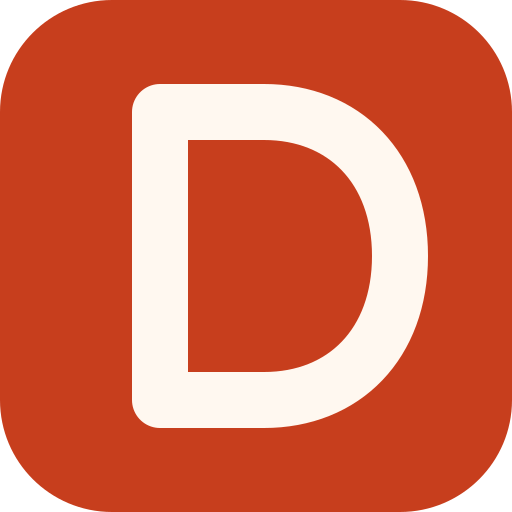
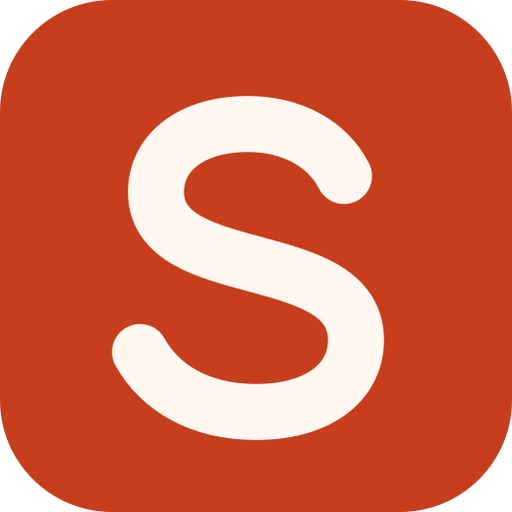
chore(brand): переименование DukenAI → Sөre
- название в интерфейсе, заголовках, манифесте, сообщениях Telegram, письмах и документации
- логотип-слово Sөre (ө акцентным цветом), новая иконка «S» и PNG для PWA/Apple
- OG-картинки: добавлен Onest cyrillic-ext, чтобы «ө» не превращалась в пустой квадрат
- ключи localStorage duken-* → sore-*, package name, project_id Supabase, demo-почты @sore.kz
- в HTTP-заголовке X-Title и логах — ASCII «Sore» (non-ASCII в заголовках ломает fetch)
- не тронуты: миграции, cron-задача и advisory-lock в SQL, исторические отчёты docs/CODEX*, AUDIT

Changed region(s): [[0.2188, 0.1562, 0.8438, 0.875], [0.6562, 0.7812, 0.7188, 0.8125]]

diff --git a/src/app/page.tsx b/src/app/page.tsx
@@ -21,7 +21,7 @@ export default function Home() {
     <main className="mx-auto flex w-full max-w-6xl flex-col gap-14 px-5 pb-14 pt-6 sm:px-8">
       <header className="flex items-center justify-between gap-4">
         <div className="text-2xl font-extrabold tracking-tight">
-          duken<span className="text-accent">.ai</span>
+          S<span className="text-accent">ө</span>re
         </div>
         <div className="flex items-center gap-3 sm:gap-5">
           <ThemeToggle />
@@ -65,7 +65,7 @@ export default function Home() {
             <div className="size-10 rounded-full bg-thumb" />
             <div>
               <div className="text-[15px] font-bold">Сладкий дом Алии</div>
-              <div className="text-xs text-muted">Алматы · duken.ai/aliya</div>
+              <div className="text-xs text-muted">Алматы · sore.kz/aliya</div>
             </div>
           </div>
           <div className="grid grid-cols-2 gap-2.5">
@@ -114,7 +114,7 @@ export default function Home() {
             <ul className="flex flex-col gap-2 text-muted">
               <li>До 15 товаров</li>
               <li>20 ИИ-генераций в день</li>
-              <li>Плашка «Сделано в DukenAI»</li>
+              <li>Плашка «Сделано в Sөre»</li>
             </ul>
             <Link href="/login" className="btn-accent mt-auto">
               Создать магазин
@@ -138,7 +138,7 @@ export default function Home() {
       </section>
 
       <footer className="flex flex-wrap items-center justify-between gap-4 border-t border-line pt-6 text-sm text-muted">
-        <div>© DukenAI · Сделано в Казахстане</div>
+        <div>© Sөre · Сделано в Казахстане</div>
         <nav aria-label="Юридическая информация" className="flex flex-wrap gap-x-5">
           <Link href="/terms" className="flex min-h-11 items-center underline">
             Условия

diff --git a/src/app/[slug]/cart/cart-view.tsx b/src/app/[slug]/cart/cart-view.tsx
@@ -76,7 +76,7 @@ export function CartView({ shop, lang, products }: { shop: ShopInfo; lang: Lang;
     // eslint-disable-next-line react-hooks/set-state-in-effect
     setNotice(useCart.getState().reconcile(shop.slug, products));
     try {
-      const saved = JSON.parse(localStorage.getItem("duken-customer") || "{}");
+      const saved = JSON.parse(localStorage.getItem("sore-customer") || "{}");
       if (typeof saved.name === "string") setName(saved.name.slice(0,80));
       if (typeof saved.phone === "string") setPhone(saved.phone.slice(0,30));
     } catch { /* Optional browser storage. */ }
@@ -139,7 +139,7 @@ export function CartView({ shop, lang, products }: { shop: ShopInfo; lang: Lang;
     });
     const url = whatsappUrl(shop.whatsapp, text);
 
-    try { localStorage.setItem("duken-customer", JSON.stringify({ name: name.trim(), phone: digits })); } catch { /* Optional storage. */ }
+    try { localStorage.setItem("sore-customer", JSON.stringify({ name: name.trim(), phone: digits })); } catch { /* Optional storage. */ }
     clear();
     setSentNumber(Number(row.order_number));
     setStatusHref(statusPath);
@@ -245,7 +245,7 @@ export function CartView({ shop, lang, products }: { shop: ShopInfo; lang: Lang;
             <input type="text" name="website" tabIndex={-1} autoComplete="off" hidden />
 
             <p className="text-sm text-muted">{t.savedHint}</p>
-            <button type="button" className="min-h-11 text-sm underline" onClick={() => { try { localStorage.removeItem("duken-customer"); } catch {} setName(""); setPhone(""); }}>{t.clearDetails}</button>
+            <button type="button" className="min-h-11 text-sm underline" onClick={() => { try { localStorage.removeItem("sore-customer"); } catch {} setName(""); setPhone(""); }}>{t.clearDetails}</button>
             <div className="grid grid-cols-2 gap-2" role="group" aria-label={t.method}>
               {(["delivery", "pickup"] as const).map((v) => (
                 <button

diff --git a/src/app/api/telegram/webhook/route.ts b/src/app/api/telegram/webhook/route.ts
@@ -25,7 +25,7 @@ export async function POST(request: Request) {
   if (start) {
     const { data: row } = await admin.from("shop_telegram").select("shop_id").eq("link_code", start[1]).maybeSingle();
     if (!row) {
-      await sendTelegram(chatId, "Код не подошёл или устарел. Откройте в кабинете DukenAI «Магазин» и нажмите «Подключить Telegram» ещё раз.");
+      await sendTelegram(chatId, "Код не подошёл или устарел. Откройте в кабинете Sөre «Магазин» и нажмите «Подключить Telegram» ещё раз.");
       return NextResponse.json({ ok: true });
     }
     await admin.from("shop_telegram").update({ chat_id: chatId, linked_at: new Date().toISOString(), link_code: null }).eq("shop_id", row.shop_id);
@@ -36,10 +36,10 @@ export async function POST(request: Request) {
 
   if (/^\/stop(?:@\w+)?$/.test(text)) {
     await admin.from("shop_telegram").update({ chat_id: null, linked_at: null }).eq("chat_id", chatId);
-    await sendTelegram(chatId, "Уведомления отключены. Подключить снова можно в кабинете DukenAI.");
+    await sendTelegram(chatId, "Уведомления отключены. Подключить снова можно в кабинете Sөre.");
     return NextResponse.json({ ok: true });
   }
 
-  await sendTelegram(chatId, "Это бот уведомлений DukenAI. Чтобы получать заказы, откройте в кабинете «Магазин» и нажмите «Подключить Telegram».");
+  await sendTelegram(chatId, "Это бот уведомлений Sөre. Чтобы получать заказы, откройте в кабинете «Магазин» и нажмите «Подключить Telegram».");
   return NextResponse.json({ ok: true });
 }

diff --git a/tests/e2e/regressions.spec.ts b/tests/e2e/regressions.spec.ts
@@ -67,9 +67,9 @@ test.describe("покупатель", () => {
       await expect(buyer.getByRole("heading", { name: "Тапсырыс қабылданды" })).toBeVisible();
       await expect(buyer.getByRole("link", { name: "WhatsApp ашу" })).toBeVisible();
       // Сообщение продавцу всегда на русском, даже если витрина на казахском.
-      expect(new URL(whatsapp).searchParams.get("text")).toContain("Здравствуйте! Заказ из DukenAI (№1)");
+      expect(new URL(whatsapp).searchParams.get("text")).toContain("Здравствуйте! Заказ из Sөre (№1)");
 
-      expect(JSON.parse((await buyer.evaluate(() => localStorage.getItem("duken-customer"))) || "{}")).toMatchObject({ name: "Айгерим", phone: "77015550011" });
+      expect(JSON.parse((await buyer.evaluate(() => localStorage.getItem("sore-customer"))) || "{}")).toMatchObject({ name: "Айгерим", phone: "77015550011" });
 
       // Новая покупка: контакты подставляются сами, кнопка «Өшіру» их стирает.
       await buyer.goto(`${base}/${slug}?lang=kz`);
@@ -78,7 +78,7 @@ test.describe("покупатель", () => {
       await expect(buyer.getByLabel("Аты", { exact: true })).toHaveValue("Айгерим");
       await buyer.getByRole("button", { name: "Сақталған ат пен телефонды өшіру" }).click();
       await expect(buyer.getByLabel("Аты", { exact: true })).toHaveValue("");
-      expect(await buyer.evaluate(() => localStorage.getItem("duken-customer"))).toBeNull();
+      expect(await buyer.evaluate(() => localStorage.getItem("sore-customer"))).toBeNull();
     } finally {
       await ctx.close();
       await cleanupUser(admin, email);

diff --git a/src/app/terms/page.tsx b/src/app/terms/page.tsx
@@ -1,13 +1,13 @@
 import type { Metadata } from "next";
 import { LegalPage, contactLine } from "@/components/legal-page";
 
-export const metadata: Metadata = { title: "Условия использования — DukenAI", description: "Правила пользования сервисом DukenAI для продавцов и покупателей." };
+export const metadata: Metadata = { title: "Условия использования — Sөre", description: "Правила пользования сервисом Sөre для продавцов и покупателей." };
 
 export default function TermsPage() {
   return (
     <LegalPage title="Условия использования" updated="16 ноября 2026">
       <p>
-        DukenAI — сервис, который помогает продавцу сделать каталог-ссылку, принимать заказы и получать их в WhatsApp и Telegram. Пользуясь сервисом, вы соглашаетесь с этими условиями.
+        Sөre — сервис, который помогает продавцу сделать каталог-ссылку, принимать заказы и получать их в WhatsApp и Telegram. Пользуясь сервисом, вы соглашаетесь с этими условиями.
       </p>
 
       <h2>1. Что делает сервис</h2>

diff --git a/src/lib/og.tsx b/src/lib/og.tsx
@@ -18,9 +18,11 @@ export async function renderOg({
   subtitle: string;
   badge: string;
 }) {
-  const [cyr, lat] = await Promise.all([
+  // cyrillic-ext нужен для казахских букв (ө, ү, қ…), в том числе в названии Sөre.
+  const [cyr, lat, ext] = await Promise.all([
     font("onest-cyrillic-700-normal.woff"),
     font("onest-latin-700-normal.woff"),
+    font("onest-cyrillic-ext-700-normal.woff"),
   ]);
 
   const tints = ["#f3d9c4", "#e8d5e6", "#d9e6d0", "#f6e3a8"];
@@ -37,12 +39,12 @@ export async function renderOg({
           background: "#fff8f0",
           color: "#2b2118",
           padding: 72,
-          fontFamily: "OnestLatin, Onest",
+          fontFamily: "OnestLatin, Onest, OnestExt",
         }}
       >
         <div style={{ display: "flex", alignItems: "center", justifyContent: "space-between" }}>
           <div style={{ display: "flex", fontSize: 40 }}>
-            duken<span style={{ color: "#c73e1d" }}>.ai</span>
+            S<span style={{ color: "#c73e1d" }}>ө</span>re
           </div>
           <div
             style={{
@@ -89,6 +91,7 @@ export async function renderOg({
       fonts: [
         { name: "Onest", data: cyr, weight: 700, style: "normal" },
         { name: "OnestLatin", data: lat, weight: 700, style: "normal" },
+        { name: "OnestExt", data: ext, weight: 700, style: "normal" },
       ],
     },
   );

diff --git a/tests/unit/core.test.ts b/tests/unit/core.test.ts
@@ -14,7 +14,7 @@ describe("заказ", () => {
   it("точно соответствует эталону", () => expect(buildOrderText({ number: 1042, lines: [
     { id: "1", title: "Торт «Прага» 1 кг", price: 12000, qty: 1 },
     { id: "2", title: "Капкейки, набор 6 шт", price: 4500, qty: 2 },
-  ], name: "Айгерим", delivery: "delivery", address: "ул. Абая 10, кв. 5", comment: "к 18:00" })).toBe("Здравствуйте! Заказ из DukenAI (№1042)\n\n1. Торт «Прага» 1 кг × 1 — 12 000 ₸\n2. Капкейки, набор 6 шт × 2 — 9 000 ₸\n\nИтого: 21 000 ₸\nИмя: Айгерим\nДоставка: ул. Абая 10, кв. 5\nКомментарий: к 18:00"));
+  ], name: "Айгерим", delivery: "delivery", address: "ул. Абая 10, кв. 5", comment: "к 18:00" })).toBe("Здравствуйте! Заказ из Sөre (№1042)\n\n1. Торт «Прага» 1 кг × 1 — 12 000 ₸\n2. Капкейки, набор 6 шт × 2 — 9 000 ₸\n\nИтого: 21 000 ₸\nИмя: Айгерим\nДоставка: ул. Абая 10, кв. 5\nКомментарий: к 18:00"));
 });
 it("транслитерирует ru/kz и защищает служебные адреса", () => {
   expect(slugify("Сладкий дом Алии")).toBe("sladkiy-dom-alii");

diff --git a/scripts/seed-pilot.ts b/scripts/seed-pilot.ts
@@ -9,7 +9,7 @@
  *
  * Фото и телефон повара в репозиторий НЕ попадают: фото читаются из папки, номер задаётся окружением.
  *   PILOT_WHATSAPP  номер WhatsApp магазина (по умолчанию заглушка, чтобы тестовые заказы не уходили реальному человеку)
- *   PILOT_EMAIL     email владельца (по умолчанию povar@duken.ai)
+ *   PILOT_EMAIL     email владельца (по умолчанию povar@sore.kz)
  *   PILOT_SLUG      адрес (по умолчанию povar-astana)
  * Без --allow-remote работает только с локальной базой.
  */
@@ -76,7 +76,7 @@ async function main() {
   if (!process.argv.includes("--allow-remote") && !/^http:\/\/(localhost|127\.0\.0\.1):/.test(url)) {
     throw new Error("Скрипт пилота работает только с локальной базой; для облака добавьте --allow-remote осознанно.");
   }
-  const email = process.env.PILOT_EMAIL ?? "povar@duken.ai";
+  const email = process.env.PILOT_EMAIL ?? "povar@sore.kz";
   const slug = process.env.PILOT_SLUG ?? "povar-astana";
   const whatsapp = (process.env.PILOT_WHATSAPP ?? "77010000000").replace(/\D/g, "");
 

diff --git a/src/lib/order.ts b/src/lib/order.ts
@@ -32,7 +32,7 @@ export function normalizePhone(raw: string): string {
 }
 
 export function buildOrderText(o: OrderInput): string {
-  const head = `Здравствуйте! Заказ из DukenAI${o.number ? ` (№${o.number})` : ""}`;
+  const head = `Здравствуйте! Заказ из Sөre${o.number ? ` (№${o.number})` : ""}`;
   const lines = o.lines.map(
     (l, i) => `${i + 1}. ${l.title} × ${l.qty} — ${formatPrice(l.price * l.qty)}`,
   );
@@ -76,7 +76,7 @@ export function priceLabel(price: number, mode: string | null | undefined, lang:
 export function inquiryText(title: string, price: number, mode: string | null | undefined, shopName: string): string {
   const m = asPriceMode(mode);
   const cost = m === "from" ? ` (${priceLabel(price, m)})` : "";
-  return `Здравствуйте! Пишу из магазина «${shopName}» в DukenAI. Интересует: ${title}${cost}. Подскажите, пожалуйста, детали и стоимость.`;
+  return `Здравствуйте! Пишу из магазина «${shopName}» в Sөre. Интересует: ${title}${cost}. Подскажите, пожалуйста, детали и стоимость.`;
 }
 
 /** «2026-11-20» + «18:00» → «20 ноября, 18:00» (дата без часового пояса). */

diff --git a/src/app/privacy/page.tsx b/src/app/privacy/page.tsx
@@ -1,12 +1,12 @@
 import type { Metadata } from "next";
 import { LegalPage, contactLine } from "@/components/legal-page";
 
-export const metadata: Metadata = { title: "Политика конфиденциальности — DukenAI", description: "Какие данные собирает DukenAI, зачем и кому передаёт." };
+export const metadata: Metadata = { title: "Политика конфиденциальности — Sөre", description: "Какие данные собирает Sөre, зачем и кому передаёт." };
 
 export default function PrivacyPage() {
   return (
     <LegalPage title="Политика конфиденциальности" updated="16 ноября 2026">
-      <p>Здесь описано, какие данные мы обрабатываем при работе сервиса DukenAI, зачем и как вы можете ими управлять.</p>
+      <p>Здесь описано, какие данные мы обрабатываем при работе сервиса Sөre, зачем и как вы можете ими управлять.</p>
 
       <h2>1. Какие данные мы получаем</h2>
       <ul>

diff --git a/src/app/dashboard/poster/page.tsx b/src/app/dashboard/poster/page.tsx
@@ -4,7 +4,7 @@ import { requireShop } from "@/lib/shop";
 import { PrintButton } from "./print-button";
 import { BackIcon } from "@/components/icons";
 
-export const metadata = { title: "Плакат с QR-кодом — DukenAI", robots: { index: false } };
+export const metadata = { title: "Плакат с QR-кодом — Sөre", robots: { index: false } };
 
 /** Страница для печати: название магазина, крупный QR-код на витрину и адрес ссылки. */
 export default async function PosterPage() {
@@ -41,7 +41,7 @@ export default async function PosterPage() {
         />
         <p className="text-base text-muted print:text-2xl">Наведите камеру телефона на QR-код</p>
         <p className="break-all text-lg font-extrabold text-accent print:text-3xl">{url.replace(/^https?:\/\//, "")}</p>
-        <p className="text-sm text-muted print:text-lg">Сделано в DukenAI</p>
+        <p className="text-sm text-muted print:text-lg">Сделано в Sөre</p>
       </section>
 
       <div className="flex flex-col gap-2 print:hidden">

diff --git a/src/components/view-tracker.tsx b/src/components/view-tracker.tsx
@@ -7,7 +7,7 @@ import { hasSellerSession, publicRpc } from "@/lib/public-rpc";
 export function ViewTracker({ shopId }: { shopId: string }) {
   useEffect(() => {
     if (hasSellerSession(document.cookie)) return;
-    const key = `duken-view-${shopId}`;
+    const key = `sore-view-${shopId}`;
     try {
       if (sessionStorage.getItem(key)) return;
       sessionStorage.setItem(key, "1");
@@ -16,8 +16,8 @@ export function ViewTracker({ shopId }: { shopId: string }) {
     }
     let client = crypto.randomUUID();
     try {
-      client = localStorage.getItem("duken-client") || client;
-      localStorage.setItem("duken-client", client);
+      client = localStorage.getItem("sore-client") || client;
+      localStorage.setItem("sore-client", client);
     } catch { /* Storage may be disabled; the server still enforces the per-client quota. */ }
     void publicRpc("record_view", { p_shop: shopId, p_client: client }, true).catch(() => undefined);
   }, [shopId]);
